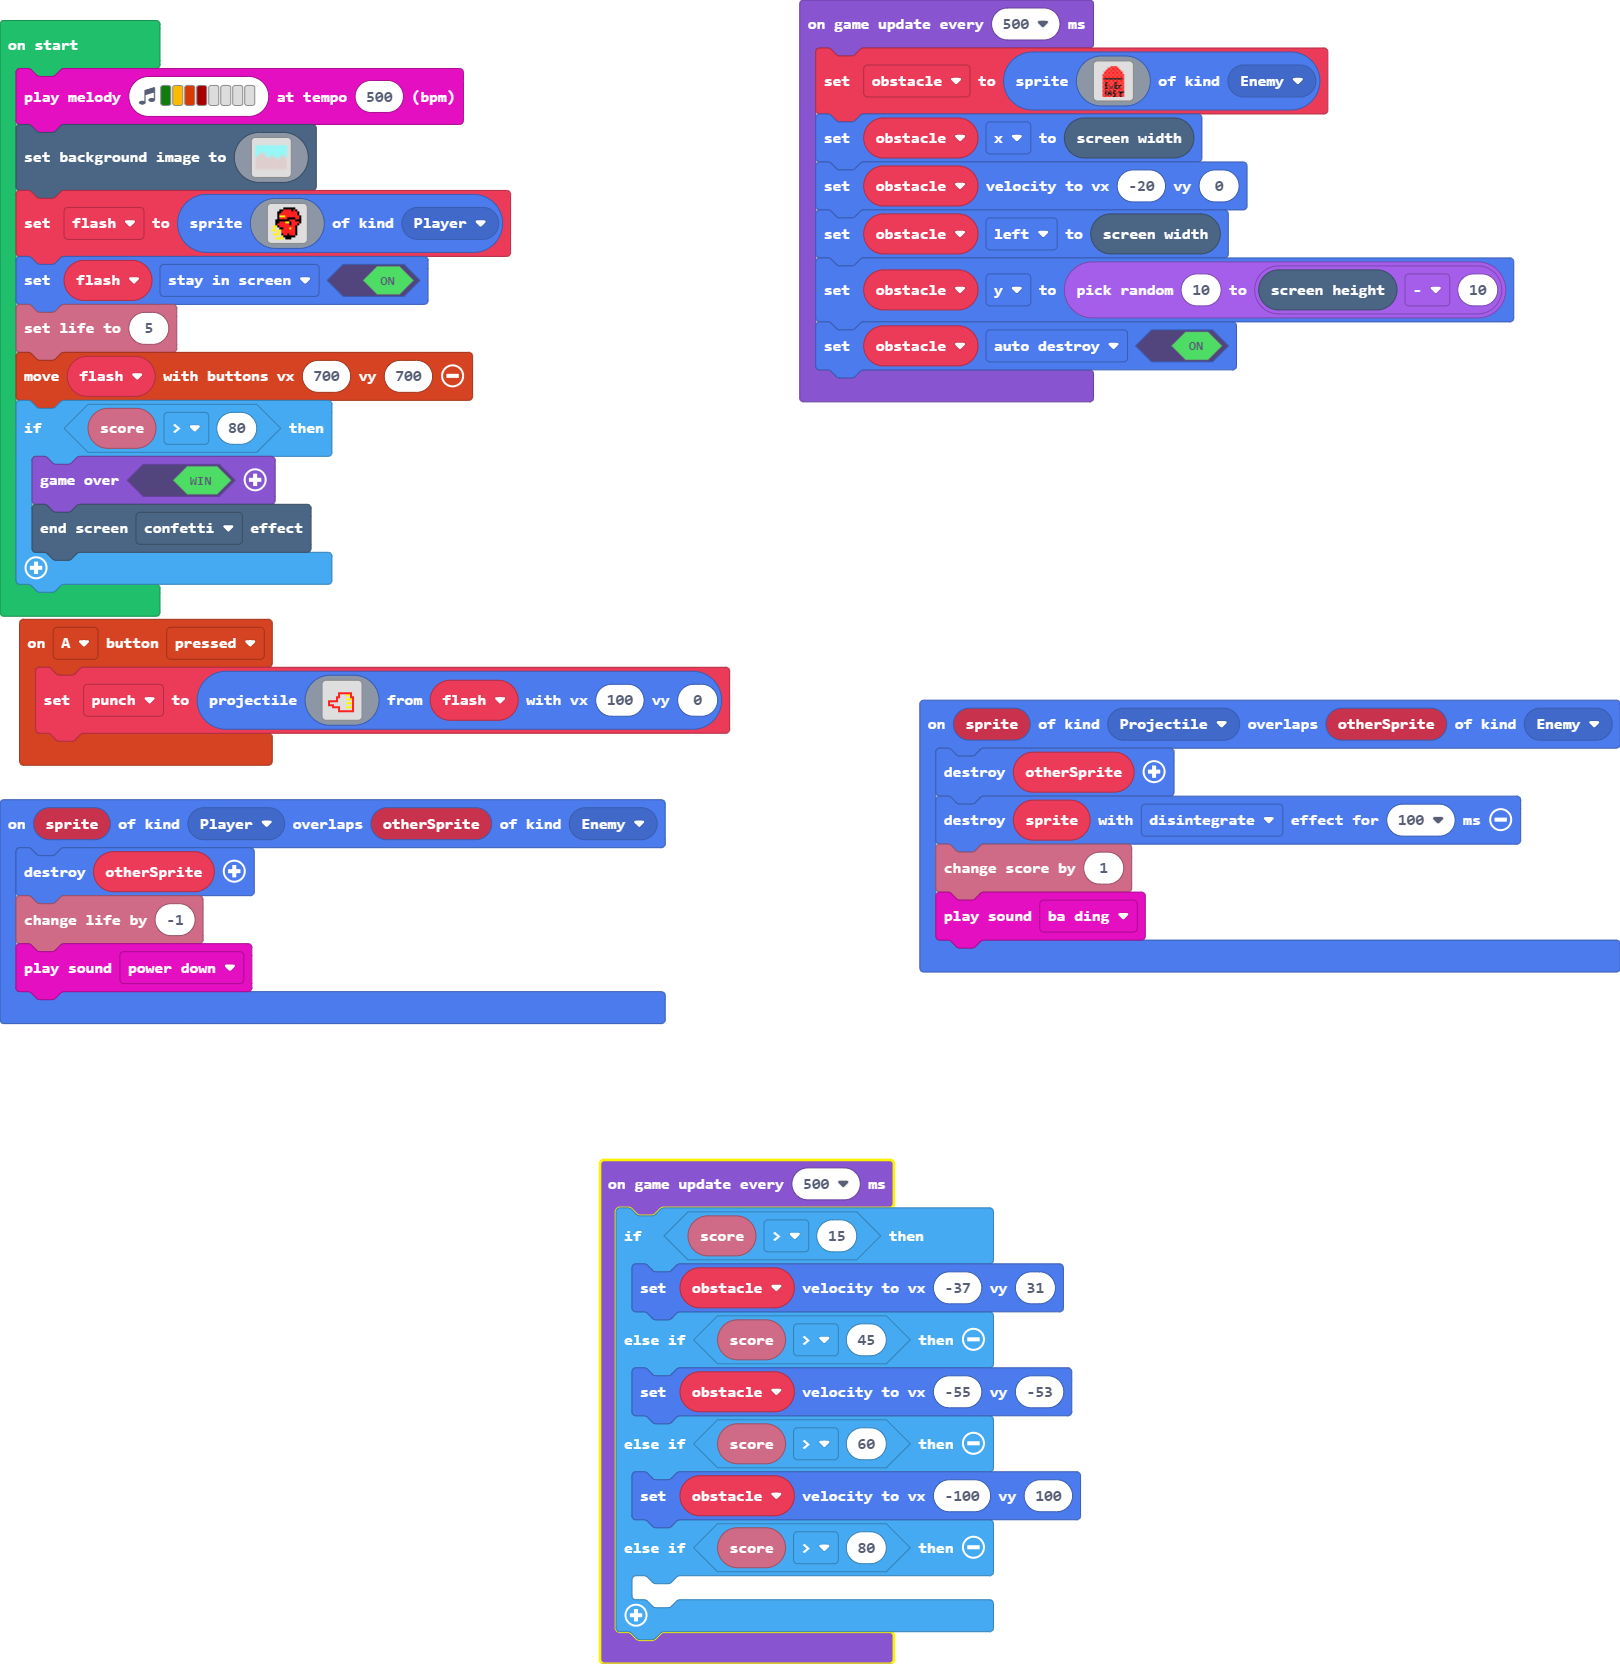
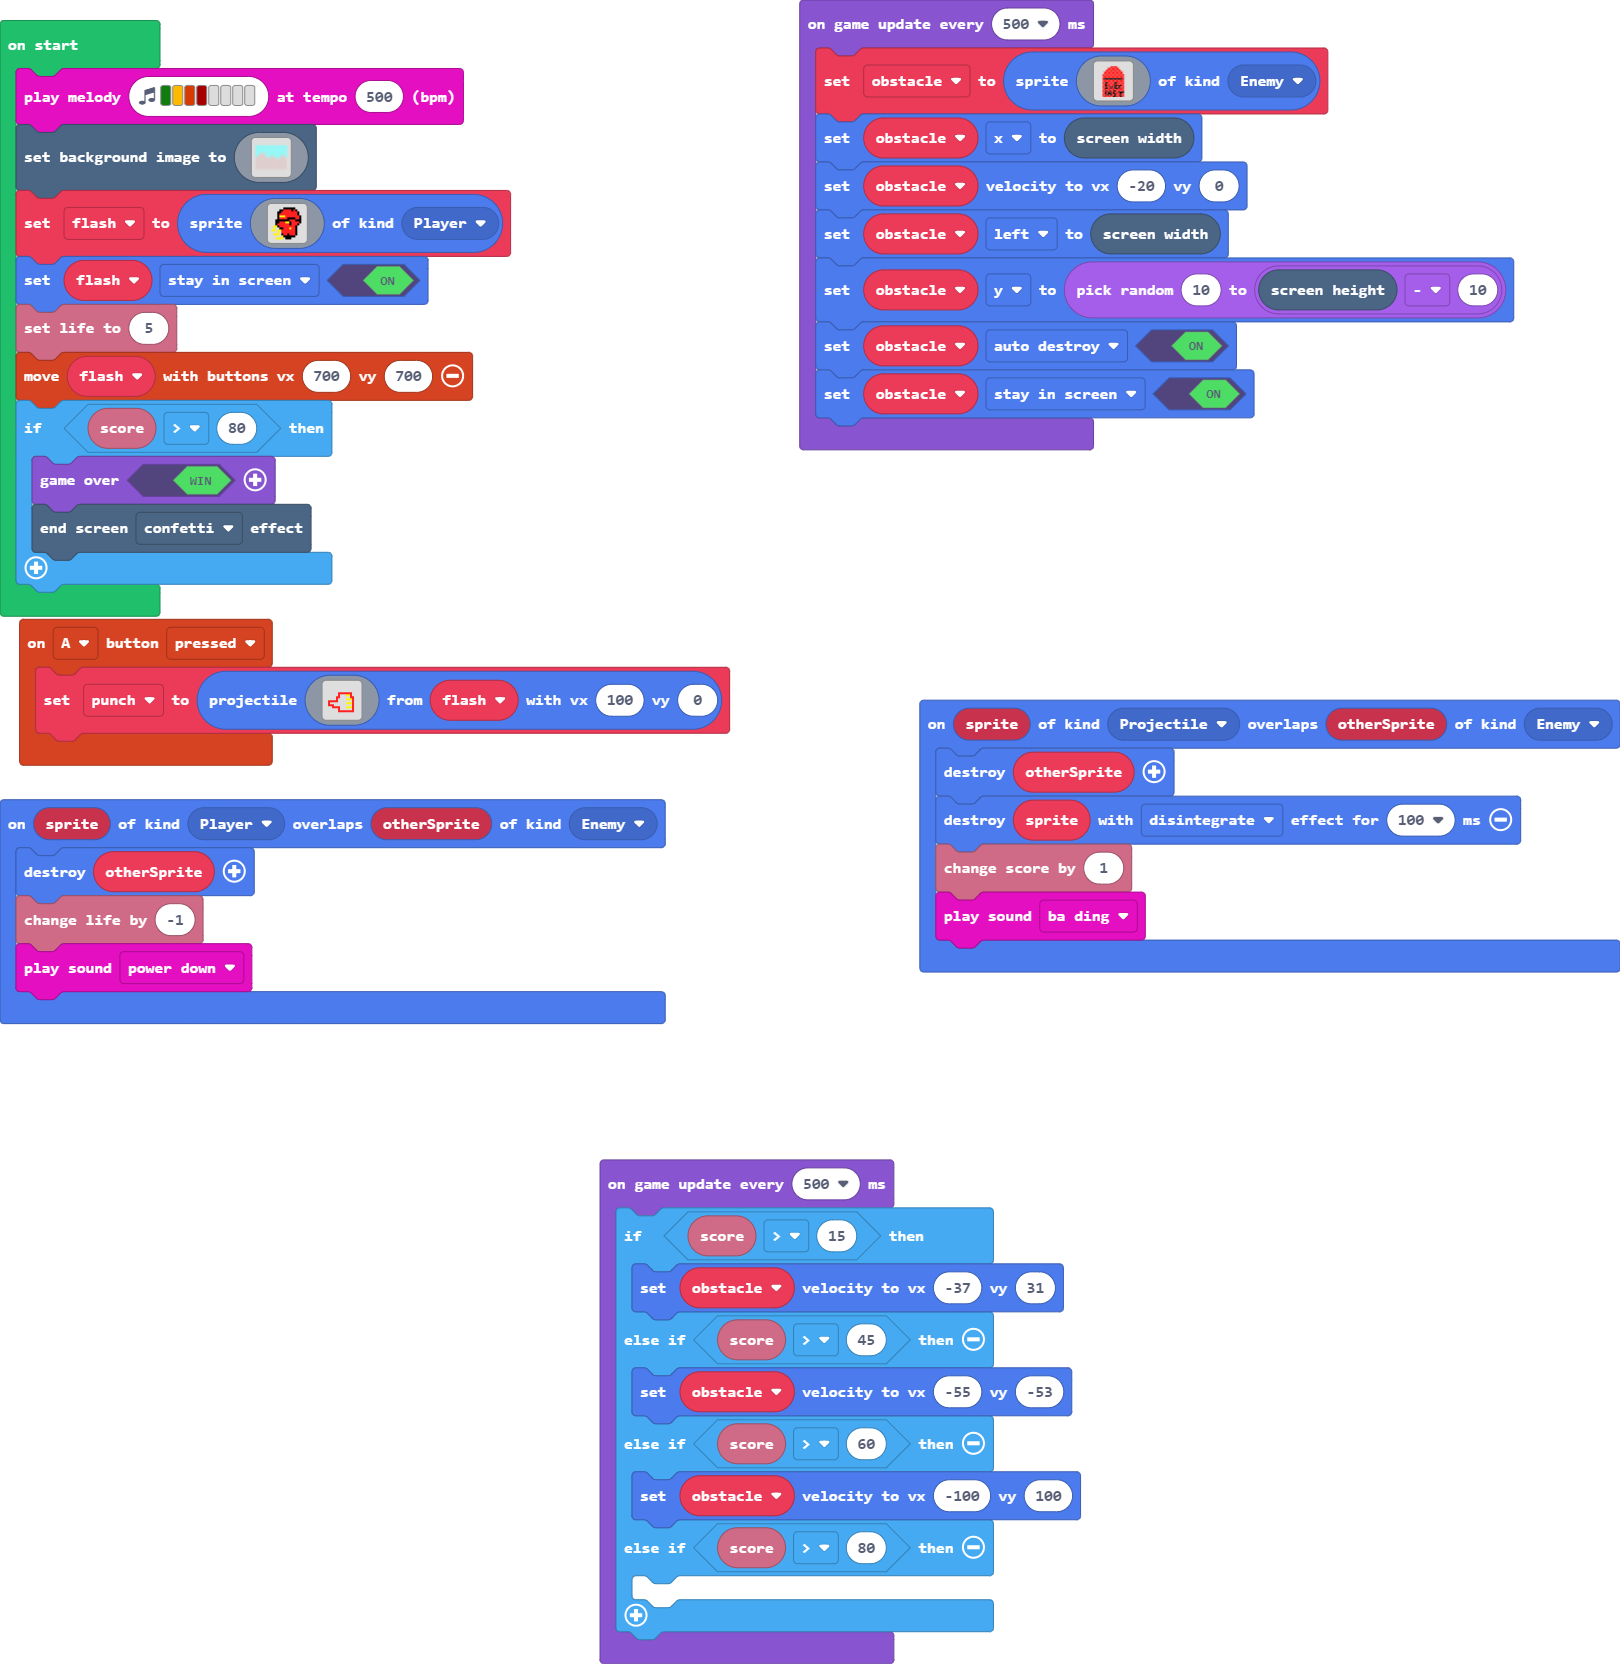
final touches

diff --git a/main.ts b/main.ts
@@ -212,6 +212,7 @@ game.onUpdateInterval(500, function () {
     obstacle.left = scene.screenWidth()
     obstacle.y = randint(10, scene.screenHeight() - 10)
     obstacle.setFlag(SpriteFlag.AutoDestroy, true)
+    obstacle.setFlag(SpriteFlag.StayInScreen, true)
 })
 game.onUpdateInterval(500, function () {
     if (info.score() > 15) {
